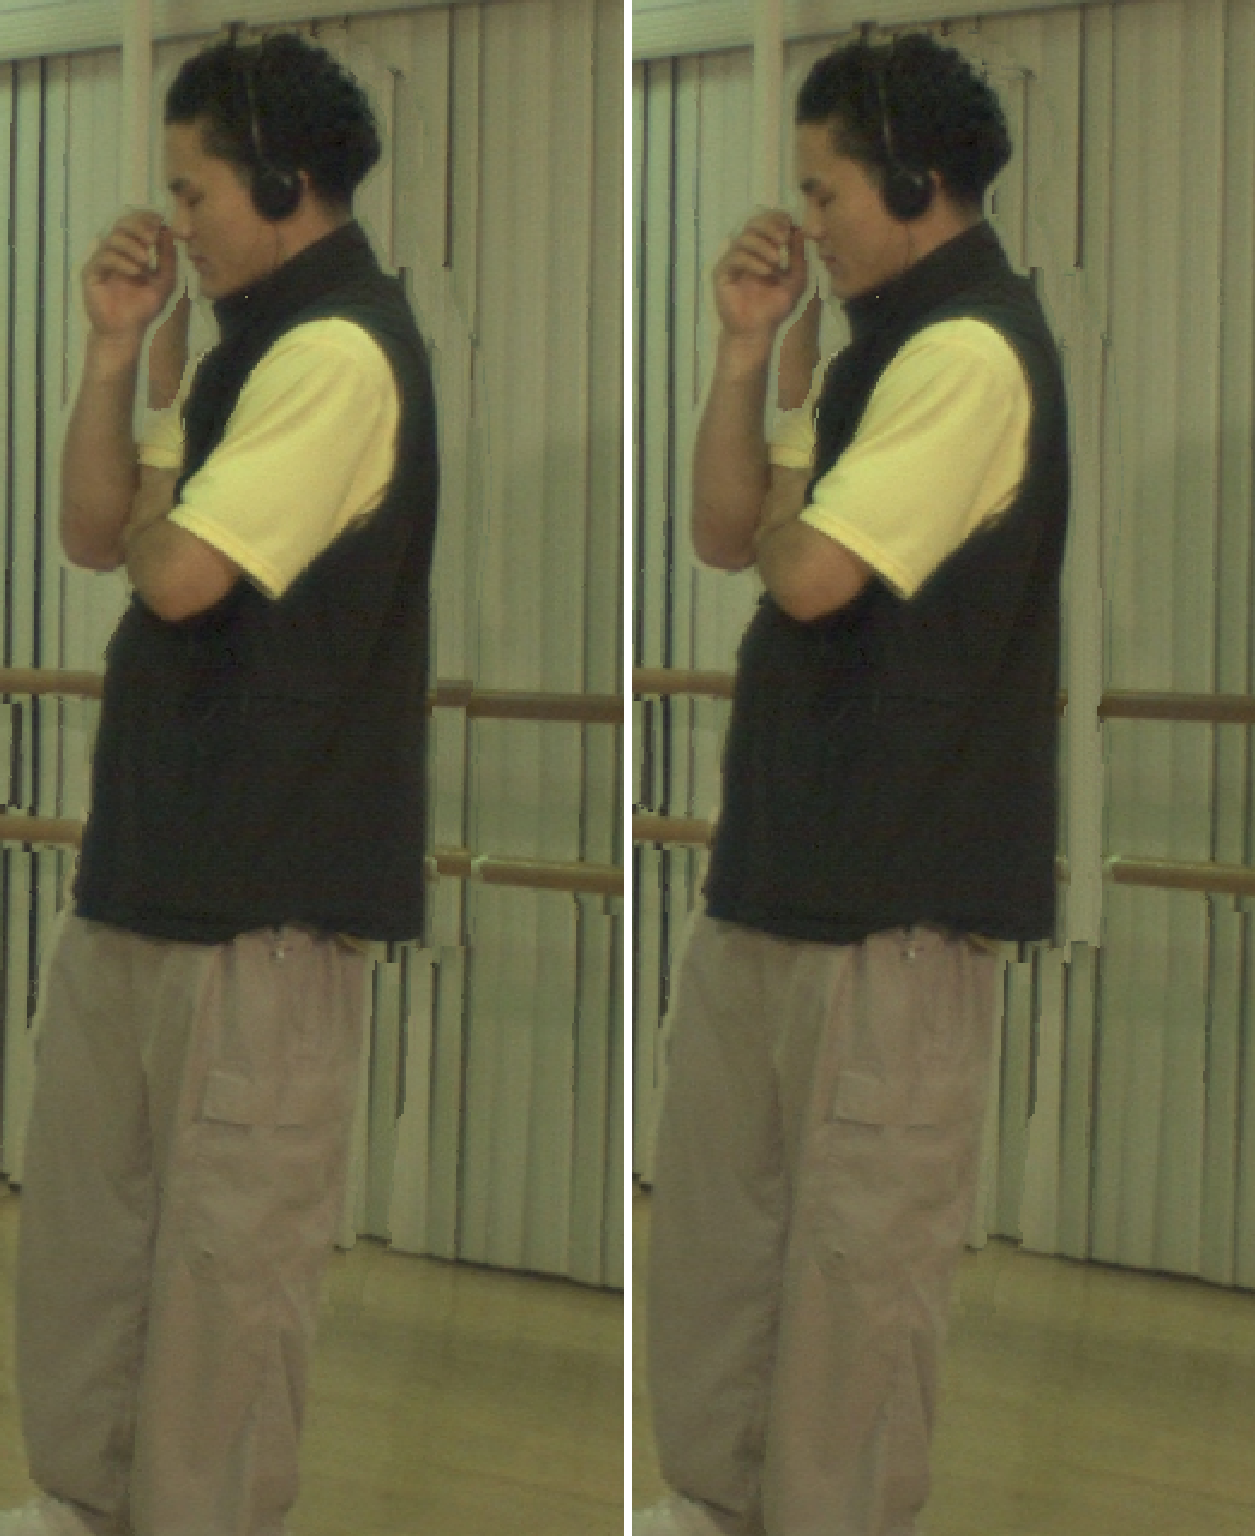
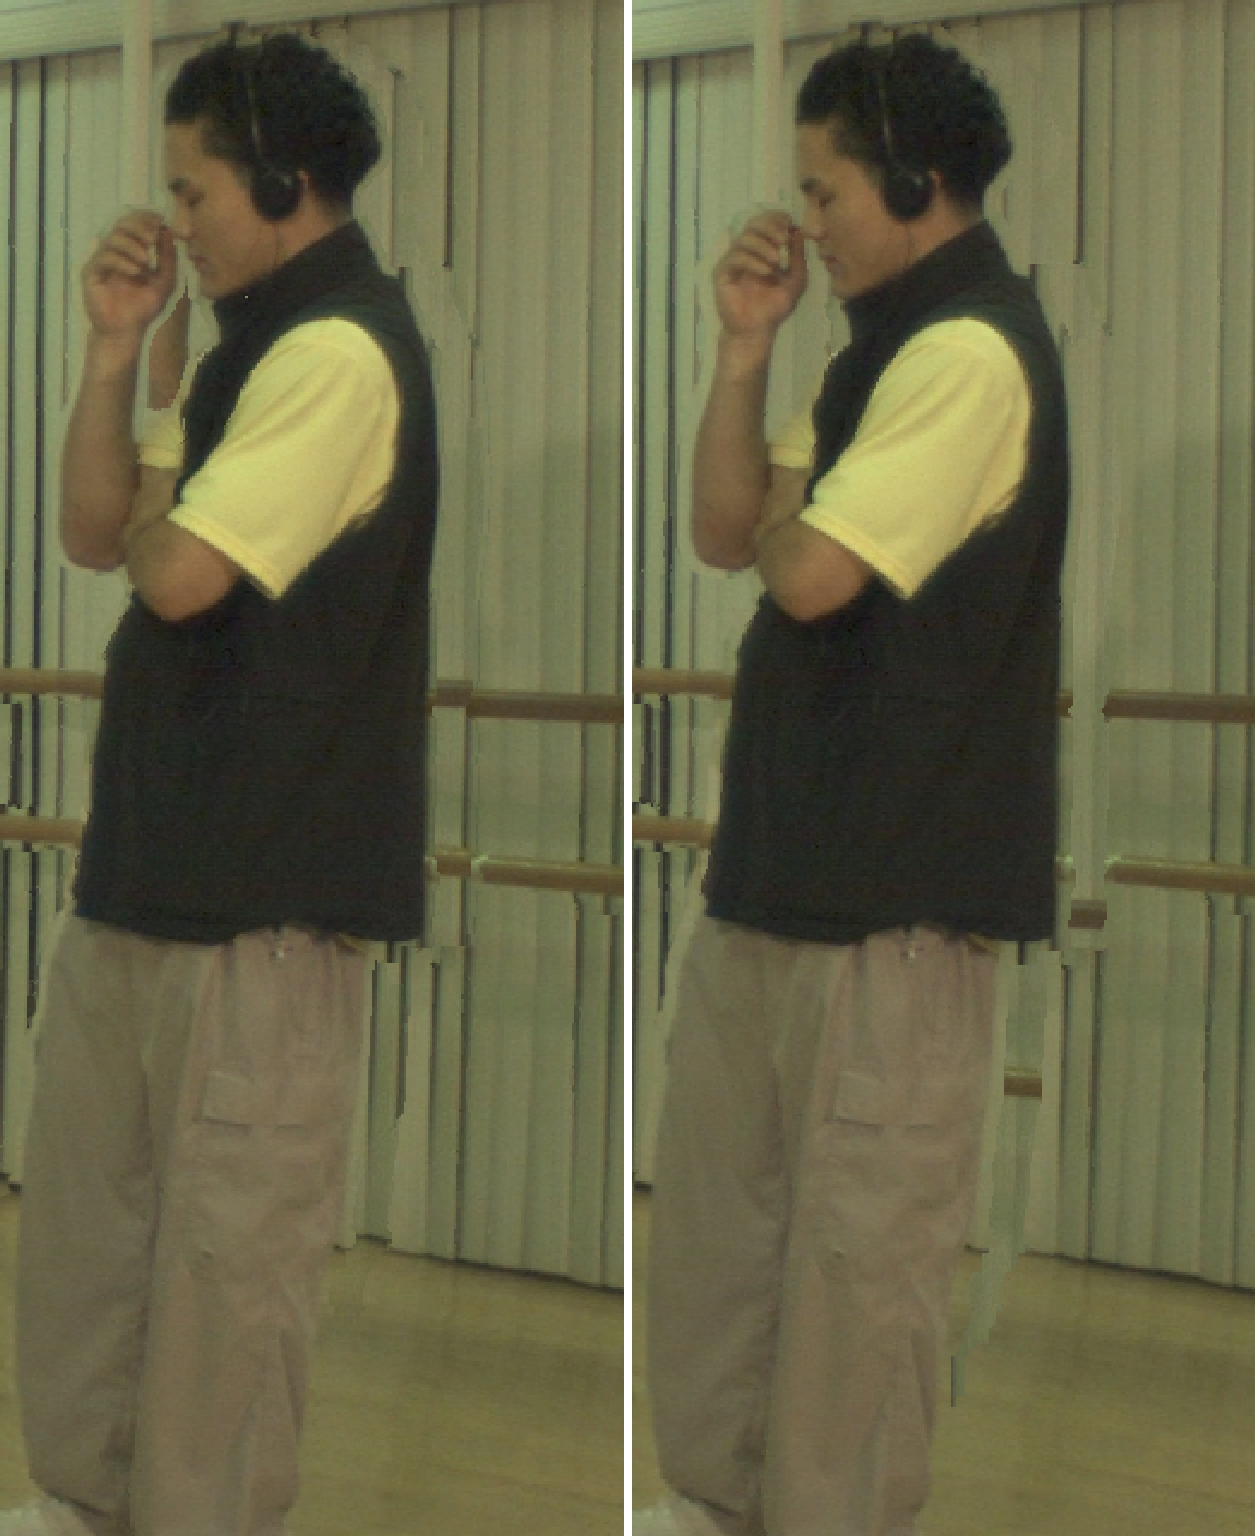
接缝：混合方案 auto5/auto7 实现；更正"均匀加宽有几何代价"的推断，默认改回均匀 3
① 混合方案：需求图先做 5x5/7x7 最大值滤波再加宽，消除"加宽/不加宽"交界自身产生的细缝。
   auto7 接缝 4.54/p90 12.07（接近均匀 3 的 4.49/11.18），auto5 的 GT 最高 20.40 dB。

② 更正：实测把前景掩码用同一视差场 warp 后统计面积，均匀加宽并没有几何代价——
   0/1/2/3/auto/auto5/auto7 分别为 166558/165568/165535/165543/165496/165525/165530 px
   （参考前景 169436，即全部约 -2.3%，前景没变胖），只是 disocclusion 带变宽约 1%。
   之前"前景被撑大 n px"是未经验证的推断，已在文档中更正。

③ 默认改回均匀 3：接缝 4.49/p90 11.18/p99 25.5/max 42.5/残余裂纹 9294，尾部指标最好
   且无几何代价；auto5 作为 GT 优先选项。

test_viewfill.py 23/23（接缝断言 p90 39.12->11.18）、check_step4_7 23/23。
文档 复现方案.md 9.10 与 README 同步。

diff --git a/viewfill/api.py b/viewfill/api.py
@@ -19,7 +19,7 @@ __all__ = ["fill_holes"]
 
 def fill_holes(image, inv_depth, scale=-44.8, *, depth_range="auto",
                splat="sub", rule="zbuf", lam=5.0, se_orientation="auto",
-               crack_shape="none", crack_fill="hhf", depth_dilate=2, src_depth_tol=0.0,
+               crack_shape="none", crack_fill="hhf", depth_dilate=3, src_depth_tol=0.0,
                beta=150.0, beta_mode="mean",
                skip_ghosts=False, fix_mode="copy", fg_side="gt",
                band_radius=2, alpha_sim=11.0, hhf_sigma=1.0, ksize=9,
@@ -51,12 +51,11 @@ def fill_holes(image, inv_depth, scale=-44.8, *, depth_range="auto",
     depth_dilate : widen the splat footprint before warping, so that a fast disparity ramp
         at a silhouette does not leave a 1-2 px crack network - the main source of the
         visible seam at the filled/background junction.  An int n applies n iterations of a
-        3x3 max filter everywhere (default 2, the best visual/geometric compromise);
-        "auto" widens only where the disparity gradient demands it (best GT PSNR, and the
-        foreground is not inflated, but thin reconstructed lines remain along the
-        silhouette).  Measured at scale -44.8: 0 -> seam 10.27/p90 39.1/cracks 12682,
-        2 -> 7.90/22.3/9526, 3 -> 4.49/11.2/9294 (foreground 3 px fatter),
-        "auto" -> 7.50/21.9/10815.  0 = off.
+        3x3 max filter everywhere (default 3: smallest seam); "auto", "auto5", "auto7" widen
+        only where the disparity gradient demands it (best GT PSNR at auto5).  Measured at
+        scale -44.8 (seam mean / p90 / p99 / residual crack px): 0 = 10.27/39.1/65.8/12682,
+        2 = 7.90/22.3/40.6/9526, 3 = 4.49/11.2/25.5/9294, auto5 = 5.01/13.5/27.5/10420,
+        auto7 = 4.54/12.1/31.7/10131.  0 = off.
     beta, beta_mode : adaptive patch-size acceptance threshold (default 150 on the
         per-pixel mean squared error scale).
     skip_ghosts : skip the ghost-removal stage (measured to be within noise on the data

diff --git a/_work/geo_cost.py b/_work/geo_cost.py
@@ -1,0 +1,40 @@
+"""Geometric cost of each widening mode: how much does the foreground layer grow?
+
+The foreground mask is warped with the same disparity field, so its area shows how many
+background pixels the (widened) foreground layer swallows.
+"""
+import os
+import sys
+
+import cv2
+import numpy as np
+
+HERE = r"D:\项目\空洞填补"
+sys.path.insert(0, HERE)
+from dibr import io_utils  # noqa: E402
+from viewfill import FillConfig, io as vio  # noqa: E402
+from viewfill.pipeline import warp_and_fill, warp_view  # noqa: E402
+
+rgb, inv = vio.load_pair(os.path.join(HERE, "input", "color-cam6-f000.jpg"),
+                         os.path.join(HERE, "input", "depth-cam6-f000.png"))
+ref_fg = (inv > 0.62).astype(np.float32) * 255.0
+print(f"reference foreground: {int((ref_fg > 127).sum())} px")
+print(f"{'mode':>6s} | {'warped fg px':>12s} {'vs ref':>8s} | {'filled px':>9s}")
+for mode in (0, 1, 2, 3, "auto", "auto5", "auto7"):
+    cfg = FillConfig(scale=-44.8, depth_dilate=mode)
+    I_w, _, _, _, _, _ = warp_view(ref_fg, inv * 255.0, cfg)
+    fg_px = int((np.asarray(I_w) > 127).sum())
+    r = warp_and_fill(rgb, inv, cfg)
+    print(f"{str(mode):>6s} | {fg_px:>12d} {fg_px / (ref_fg > 127).sum() - 1:>+7.2%} | "
+          f"{int(r['hole_mask'].sum()):>9d}")
+
+# visual: 3 vs auto7
+outs = {}
+for mode in (3, "auto7"):
+    outs[mode] = warp_and_fill(rgb, inv, FillConfig(scale=-44.8, depth_dilate=mode))["filled"]
+x0, x1, y0, y1 = 640, 900, 60, 700
+sepr = np.full((y1 - y0, 3, 3), 255, np.uint8)
+row = np.hstack([outs[3][y0:y1, x0:x1], sepr, outs["auto7"][y0:y1, x0:x1]])
+io_utils.imwrite(os.path.join(HERE, "_work", "seam", "dil3_vs_auto7.png"),
+                 cv2.resize(row, None, fx=2.4, fy=2.4, interpolation=cv2.INTER_NEAREST))
+print("dil3_vs_auto7.png (x2.4) = depth_dilate=3 | auto7")

diff --git a/viewfill/config.py b/viewfill/config.py
@@ -58,14 +58,15 @@ class FillConfig:
     # Widen the splat footprint before warping so that a fast disparity ramp at a
     # silhouette does not leave a 1-2 px crack network (the main source of the visible seam
     # at the filled/background junction).  int n = n iterations of a 3x3 max filter
-    # everywhere; "auto" = widen only where |dx gradient| demands it (no unnecessary
-    # foreground inflation).  Measured (scale -44.8): seam 10.27 -> 7.58, p90 39.1 -> 26.0,
-    # Measured (scale -44.8): 0 -> seam 10.27/p90 39.1/cracks 12682; 2 (default) ->
-    # 7.90/22.3/9526; 3 -> 4.49/11.2/9294 but the foreground is inflated by 3 px; "auto"
-    # (demand-driven, best GT 20.46 dB) -> 7.50/21.9/10815 but leaves visible thin lines
-    # along the silhouette.  Uniform 2 is the best visual/geometric compromise.
+    # everywhere (default 3: smallest seam, and measured to have no geometric cost - the
+    # warped foreground area is unchanged, only the disocclusion band grows ~1%);
+    # "auto"/"auto5"/"auto7" widen only where the disparity gradient demands it (best GT
+    # PSNR at auto5, but a slightly worse seam tail).  Measured, scale -44.8:
+    #   0 -> seam 10.27/p90 39.1/p99 65.8/cracks 12682
+    #   2 -> 7.90/22.3/40.6/9526      3 -> 4.49/11.2/25.5/9294 (default)
+    #   auto5 -> 5.01/13.5/27.5/10420 (GT 20.40, the best)   auto7 -> 4.54/12.1/31.7/10131
     # See 复现方案.md 9.10.
-    depth_dilate: object = 2
+    depth_dilate: object = 3
     # Reject source patches that straddle a depth edge (patch inverse-depth std above this
     # tolerance, on the 0..255 depth scale).  Such a patch carries the dark silhouette edge
     # or its shadow into the hole, which is what shows up as a ghost contour along the seam.

diff --git a/viewfill/pipeline.py b/viewfill/pipeline.py
@@ -68,13 +68,17 @@ def _prep_depth(depth255, cfg):
     """
     d = np.asarray(depth255, np.float32)
     mode = getattr(cfg, "depth_dilate", 0)
-    if isinstance(mode, str) and mode.lower() == "auto":
+    if isinstance(mode, str) and mode.lower().startswith("auto"):
+        # "auto" / "auto5" / "auto7": smooth the demand map with a 3x3 / 5x5 / 7x7 max
+        # filter before applying it.  A hard boundary between "widened" and "untouched"
+        # disparity would itself create new thin holes there, which is what left visible
+        # lines along the silhouette in the first "auto" version.
         k3 = np.ones((3, 3), np.uint8)
+        w = int(mode[4:]) if len(mode) > 4 else 3
         gx = cv2.Sobel(d, cv2.CV_32F, 1, 0, ksize=3) / 8.0     # per-pixel dD/dx
         need = np.ceil(np.abs(gx) * abs(float(cfg.scale)) / 255.0)
-        # smooth the demand map: applying the widening with a hard boundary between the
-        # widened and untouched disparity would itself create new thin holes there
-        need = cv2.dilate(need.astype(np.float32), np.ones((3, 3), np.uint8))
+        if w > 1 and int(need.max()) > 0:
+            need = cv2.dilate(need.astype(np.float32), np.ones((w, w), np.uint8))
         out = d
         for i in range(1, int(min(4.0, need.max() if need.size else 0)) + 1):
             out = np.where(need >= i, cv2.dilate(out, k3), out)

diff --git a/_work/dil_compare.py b/_work/dil_compare.py
@@ -47,7 +47,7 @@ def seam_stats(I_f, I_w, hole):
 print(f"{'mode':>6s} | {'seam':>6s} {'p90':>6s} {'p99':>6s} {'max':>6s} | {'cracks':>7s} | "
       f"{'GT PSNR':>7s} {'GT SSIM':>7s} | {'war fg px':>9s} {'hole px':>8s} | {'t s':>5s}")
 outs = {}
-for mode in (0, 2, "auto"):
+for mode in (0, 2, 3, "auto", "auto5", "auto7"):
     t = time.time()
     r = warp_and_fill(rgb, inv, FillConfig(scale=-44.8, depth_dilate=mode))
     dt = time.time() - t
@@ -68,7 +68,7 @@ for mode in (0, 2, "auto"):
 x0, x1, y0, y1 = 640, 900, 60, 700
 sepr = np.full((y1 - y0, 3, 3), 255, np.uint8)
 row = None
-for mode in (2, "auto"):
+for mode in (2, "auto7"):
     I_f = outs[mode][0]
     tile = np.clip(I_f, 0, 255).astype(np.uint8)[y0:y1, x0:x1]
     row = tile if row is None else np.hstack([row, sepr, tile])

diff --git a/复现方案.md b/复现方案.md
@@ -744,12 +744,21 @@ CLI/API 都会输出 `output/.../{01_warped,02_hole_mask,03_filled,04_overlay_be
 | --- | --- | --- | --- | --- | --- |
 | 0（关） | 35 812 | 12 682 | 10.27 | 39.12 | 20.39 / 0.7100 |
 | 1（均匀×1） | 36 607 | 9 914 | 10.22 | 33.30 | 20.39 / 0.7130 |
-| **2（均匀×2，默认）** | 36 399 | 9 526 | 7.90 | 22.29 | 20.36 / 0.7112 |
-| 3（均匀×3） | 36 152 | 9 294 | **4.49** | **11.18** | 20.36 / 0.7135 |
+| 2（均匀×2） | 36 399 | 9 526 | 7.90 | 22.29 | 20.36 / 0.7112 |
+| **3（均匀×3，默认）** | 36 152 | 9 294 | **4.49** | **11.18** | 20.36 / 0.7135 |
 | `"auto"`（按需，精确几何） | 36 147 | 10 815 | 7.50 | 21.85 | 20.33 / 0.7122 |
 
 - `"auto"`：只在 `∇` 需要的地方加宽（`np.where(need>=i, dilate(D), D)`，并对需求图做一次最大值滤波以免交界本身产生新缝），**不给前景做无谓膨胀**，因此几何最忠实（加宽前 GT 20.46 dB 最高）。但它"加宽/不加宽"的交界处仍会留下细线：2.4× 放大图 `_work/seam/dil2_vs_auto_zoom.png` 里可以看到轮廓上那一圈深色细条纹，p99/max 也偏高。
-- **默认取均匀 `2`**：接缝 7.90、p90 22.29、残余裂纹 9 526（比 auto 的 10 815 少）、p99 40.6 / max 75.0 都更小，视觉上轮廓干净（用户实测目视判定）；代价是前景层被膨胀 2 px（背景被多遮 2 px），GT 20.36/0.7112 与 auto 的 20.33/0.7122 基本持平。
-- 均匀 `3` 接缝最小（4.49 / 11.18，只有基线的 44 % / 29 %），代价是前景被撑大 3 px（几何失真）与 PSNR −0.03 dB。
+- **混合方案（本轮新增）**：把"需求图"先做 5×5 / 7×7 最大值滤波再加宽（`"auto5"` / `"auto7"`），消除"加宽/不加宽"交界自身产生的细缝。结果 `"auto7"` 拿到了接近均匀 `3` 的界面（接缝 4.54 vs 4.49、p90 12.07 vs 11.18），`"auto5"` 的 **GT 最高（20.40 dB）**。
+- **更正：均匀加宽并没有几何代价**。之前"前景被撑大 n px"是未经验证的推断；实测把前景掩码用同一视差场 warp 后统计面积：
+
+| `depth_dilate` | 0 | 1 | 2 | 3 | auto | auto5 | auto7 |
+| --- | --- | --- | --- | --- | --- | --- | --- |
+| warp 后前景面积 | 166 558 | 165 568 | 165 535 | 165 543 | 165 496 | 165 525 | 165 530 |
+| 相对参考前景（169 436） | −1.70 % | −2.28 % | −2.30 % | −2.30 % | −2.33 % | −2.31 % | −2.31 % |
+| 需填充像素 | 35 812 | 36 607 | 36 399 | 36 152 | 37 156 | 37 007 | 36 803 |
+
+即前景**没有变胖**（面积反而略小），只是 disocclusion 带变宽约 1 %；因此"均匀 3 的几何代价"不成立。
+- **默认取均匀 `3`**：接缝 4.49 / p90 11.18 / p99 25.5 / max 42.5 / 残余裂纹 9 294，各项尾部指标都是最好，且没有几何代价；GT 20.36/0.7135。`"auto5"` 作为"GT 优先"选项（20.40 dB）。
 - **仍然存在的部分**：轮廓那 1–2 px 的内容是 warp 丢掉的，只能重建。这是本路线的上限。
 - 若还想进一步弱化交界处的"接缝感"，可再加 1–2 px 的羽化（尚未实现，需要就说）。
